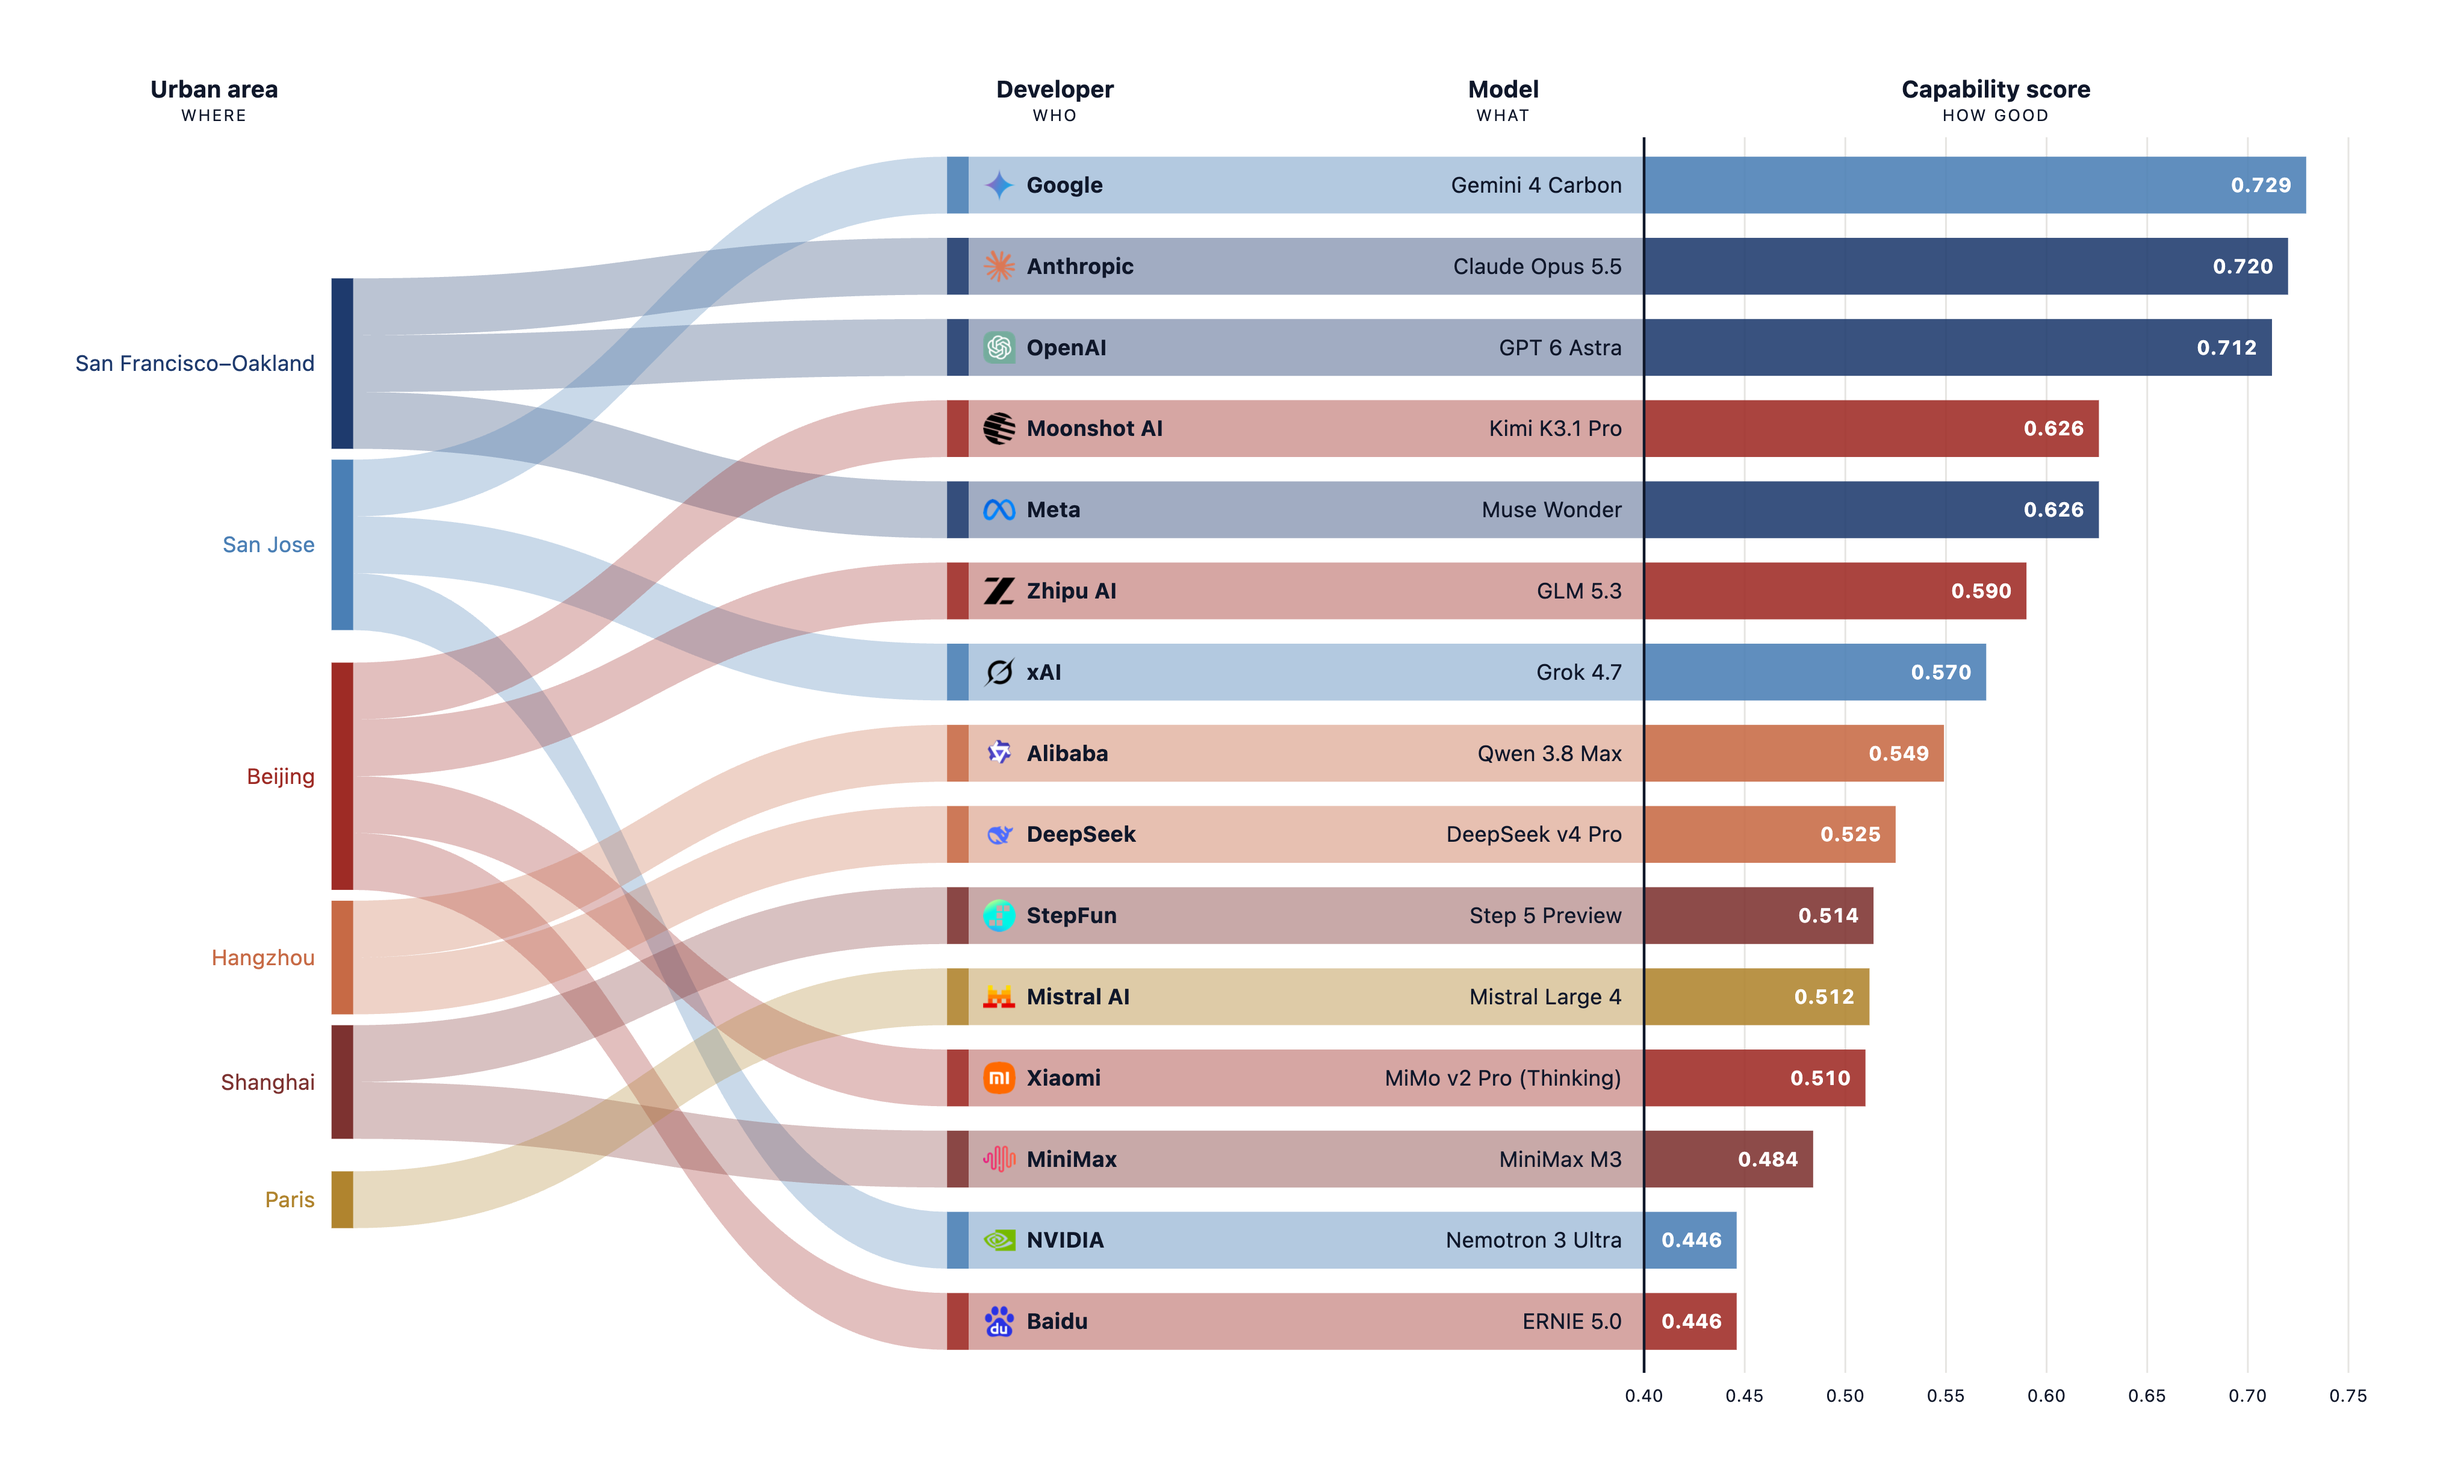
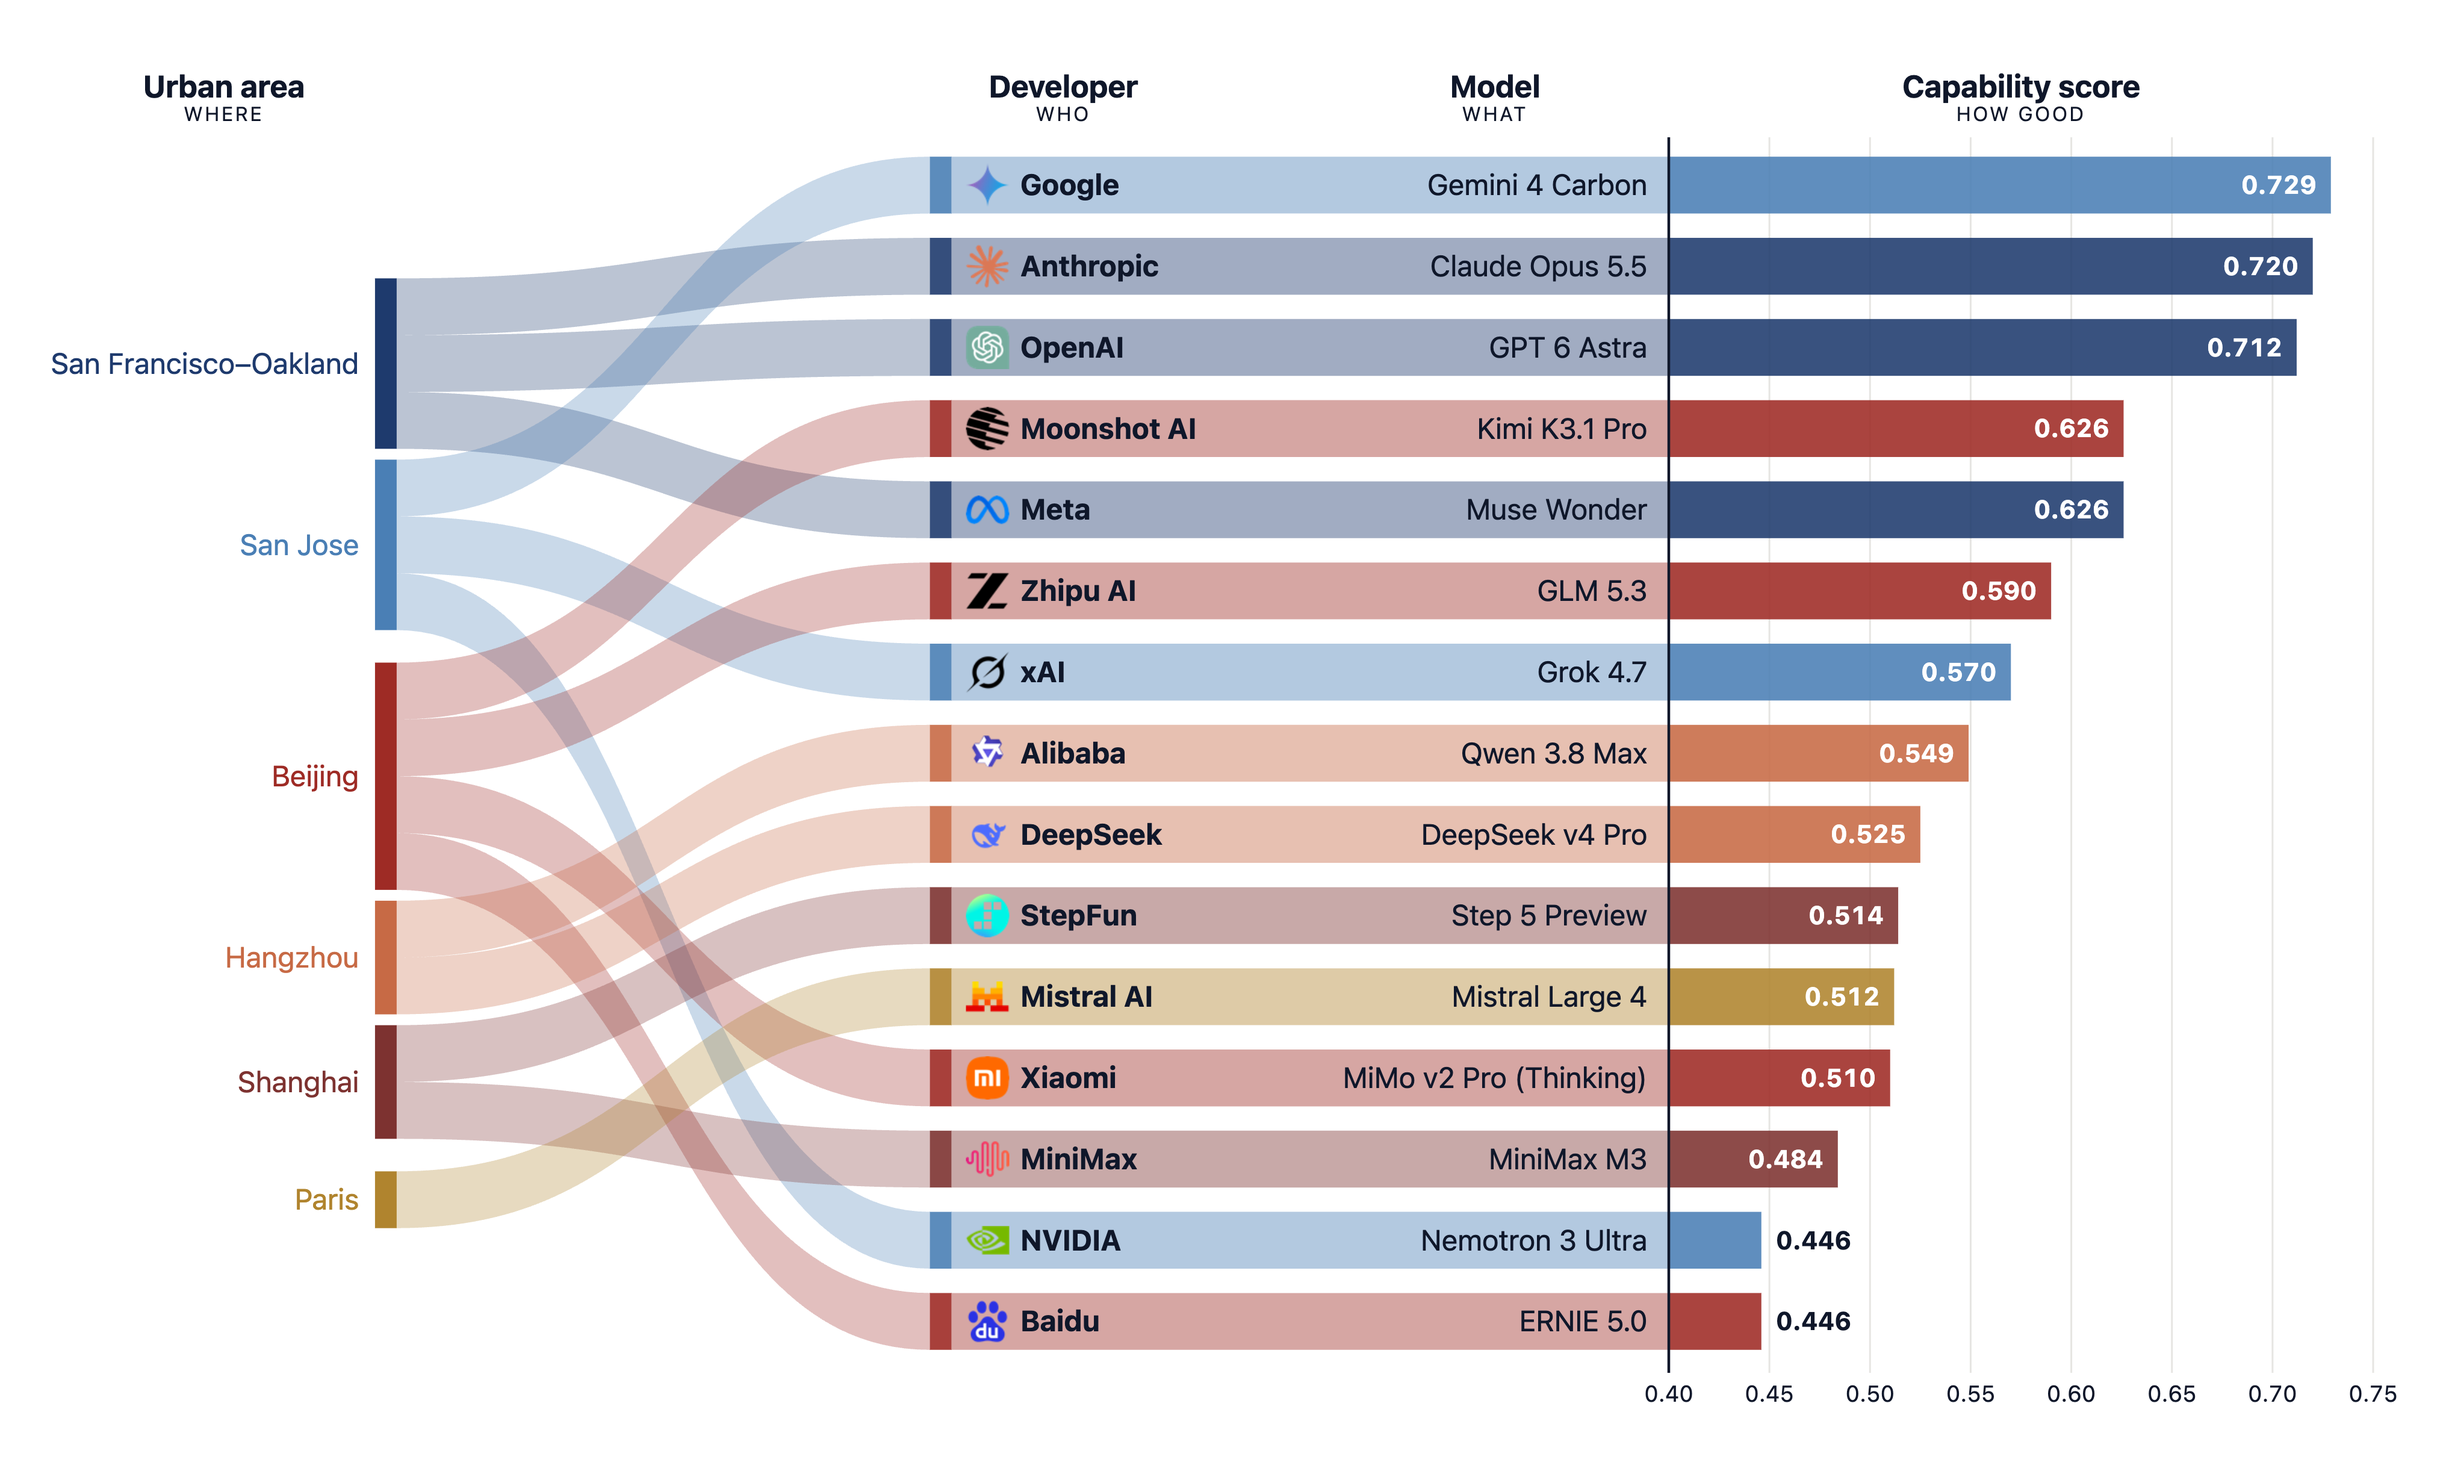
style: bigger default fonts on the model geography chart and PNG

diff --git a/aiworld/model-geography/viz.html b/aiworld/model-geography/viz.html
@@ -44,7 +44,7 @@ body {
     border: 1px solid rgba(17, 24, 39, 0.08);
     padding: 8px 12px;
     border-radius: 6px;
-    font-size: 12px;
+    font-size: 13px;
     line-height: 1.4;
     opacity: 0;
     transition: opacity 0.15s ease;
@@ -96,11 +96,11 @@ text { transition: opacity 0.16s ease; }
 const SHOW_TOOLTIP  = 1;
 const NODE_W        = 12;
 const RIB_RATIO     = 0.70;
-const LABEL_FS      = 12;
-const LABEL_FS_MIN  = 8.5;
-const HEAD_FS       = 13;
-const SUB_FS        = 9;
-const AXIS_FS       = 9.5;
+const LABEL_FS      = 16;
+const LABEL_FS_MIN  = 11;
+const HEAD_FS       = 17;
+const SUB_FS        = 11;
+const AXIS_FS       = 12.5;
 const PAD_TOP       = 52;
 const PAD_BOTTOM    = 34;
 const BAR_MIN       = 190;
@@ -112,7 +112,7 @@ const FLOW2_MAX     = 265;
 const BAR_MAX       = 470;
 const BAR_SHARE     = 0.30;
 const MODEL_GUTTER  = 12;
-const LOGO_MAX      = 18;
+const LOGO_MAX      = 24;
 const LOGO_GAP      = 6;
 const WIDTH_FLOOR   = 900;
 const HEIGHT_FLOOR  = 520;
@@ -266,9 +266,9 @@ function render() {
   const slack = width - (cityW + devW + chrome) - flow1 - flow2 - barW;
   if (slack < 0) {
     const floor1 = FLOW_MIN, floor2 = flow2Min;
-    const shrink = Math.max(floor1 + floor2, flow1 + flow2 + slack) / (flow1 + flow2);
-    flow1 = Math.max(floor1, flow1 * shrink);
-    flow2 = Math.max(floor2, flow2 * shrink);
+    const total = Math.max(floor1 + floor2, flow1 + flow2 + slack);
+    flow2 = Math.max(floor2, flow2 * total / (flow1 + flow2));
+    flow1 = Math.max(floor1, total - flow2);
   } else {
     const grow = Math.min(slack, Math.max(0, FLOW1_MAX - flow1) + Math.max(0, FLOW2_MAX - flow2));
     flow1 += grow * FLOW1_BASE / (FLOW1_BASE + FLOW2_BASE);
@@ -369,7 +369,7 @@ function render() {
       .attr('x', barX).attr('y', r.y - rib / 2)
       .attr('width', Math.max(2, bx(r.score) - barX)).attr('height', rib)
       .attr('fill', COLOR(r.city)).attr('opacity', 0.88);
-    const valFS = Math.min(11, labelFS);
+    const valFS = Math.min(14, labelFS);
     const inside = bx(r.score) - barX > measureWidth([r.score.toFixed(3)], valFS, 700) + 16;
     gText.append('text').attr('class', 'rib bar-value').attr('data-c', r.model)
       .attr('x', bx(r.score) + (inside ? -8 : 8)).attr('y', r.y).attr('dy', '0.35em')
